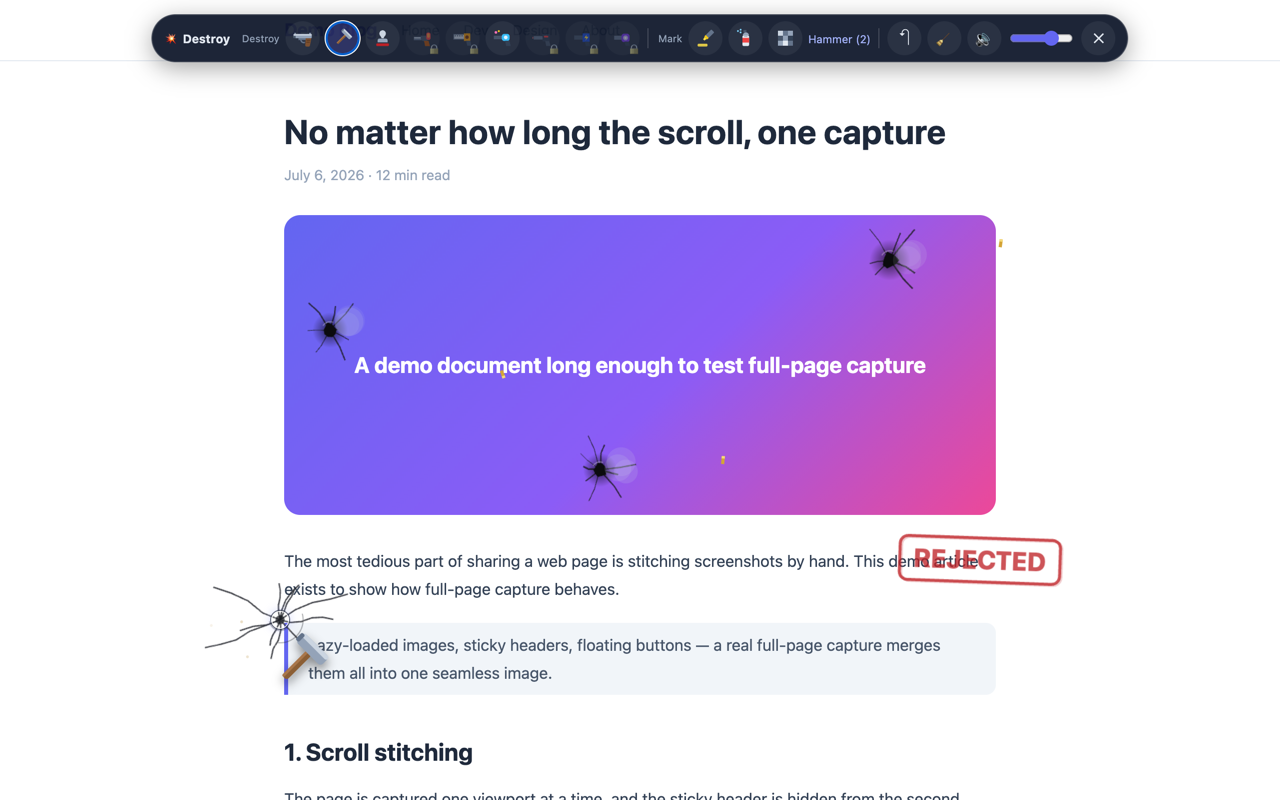
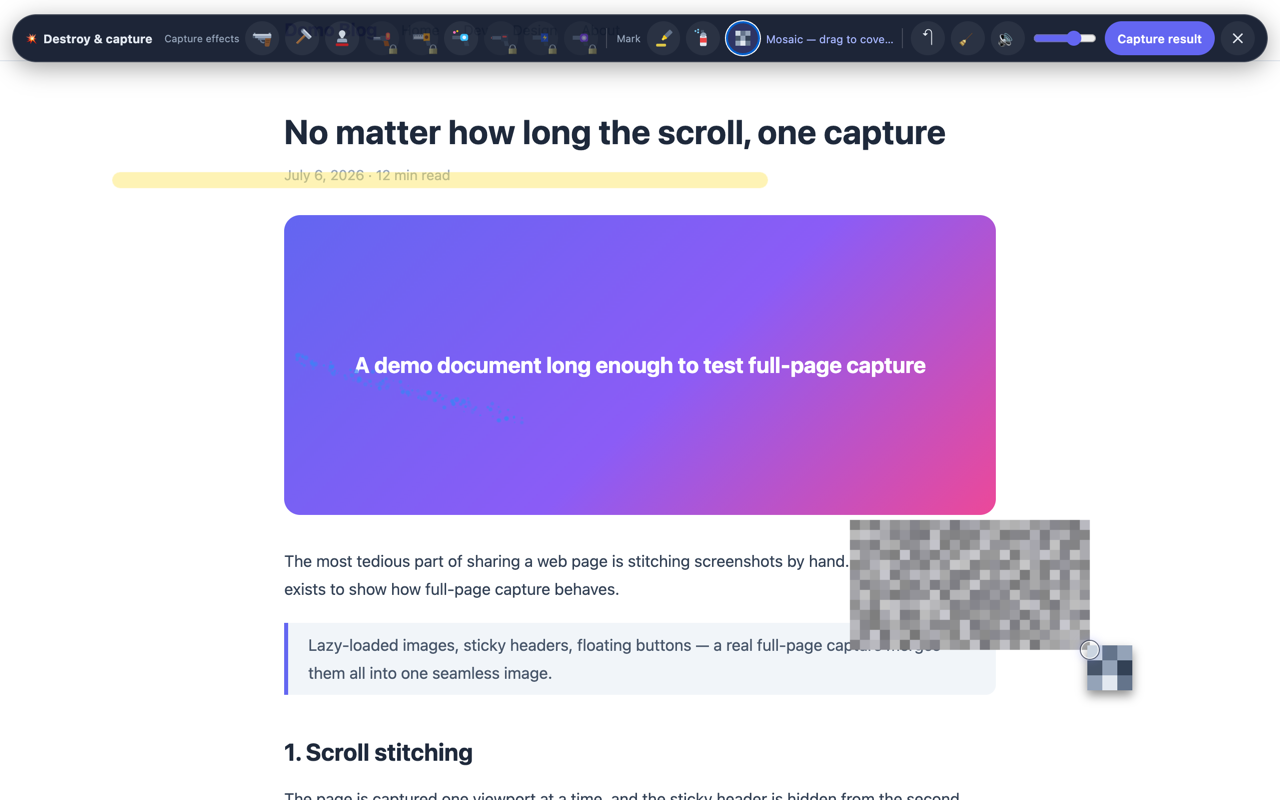
Update SnapHolt pricing and privacy

diff --git a/snapholt/index.html b/snapholt/index.html
@@ -83,14 +83,14 @@
     <li data-i18n="f2"><b>Annotate &amp; export</b> — crop, pen, arrows, highlights, mosaic, numbered badges; export to PNG / JPG / PDF / clipboard, or skip the editor with quick save.</li>
     <li data-i18n="f3"><b>Verifiable records</b> — embeds the URL, capture time, and a SHA-256 pixel hash into the image, with an optional RFC 3161 trusted timestamp and the page's original MHTML. Anyone can verify integrity on the bundled verification page.</li>
     <li data-i18n="f4"><b>Batch capture</b> — paste a list of URLs and get full-page captures as a zip or a single PDF.</li>
-    <li data-i18n="f5"><b>💥 Destroy mode</b> — blow off steam with a playful on-page overlay (and capture the aftermath).</li>
+    <li data-i18n="f5"><b>💥 Destroy &amp; Capture</b> — compose playful page effects, then save the result as a screenshot.</li>
     <li data-i18n="f6"><b>Scheduled capture &amp; change detection</b> — run hourly, daily, weekly, or once; monitor one or more regions, save only on change, and keep searchable history. Runs locally while Chrome is available.</li>
   </ul>
 
   <img class="shot" src="img/screenshot-1-editor.png" alt="SnapHolt editor with a full-page capture and integrity record band">
   <p class="cap" data-i18n="cap1">The editor with a full-page capture — the record band stores URL, time, and hash for later integrity checks.</p>
-  <img class="shot" src="img/screenshot-4-destroy.png" alt="SnapHolt destroy mode on a live page">
-  <p class="cap" data-i18n="cap2">Destroy mode: doodles stick to the page and appear in captures.</p>
+  <img class="shot" src="img/screenshot-4-destroy.png" alt="SnapHolt Destroy and Capture effects on a live page">
+  <p class="cap" data-i18n="cap2">Destroy &amp; Capture: effects stick to the page; use Capture result to save them.</p>
 
   <h2 data-i18n="privacyH">Privacy</h2>
   <div class="card" data-i18n="privacyBody">
@@ -102,11 +102,12 @@
 
   <h2 data-i18n="pricingH">Pricing</h2>
   <div class="card" data-i18n="pricingBody">
-    Free: unlimited full-page capture and editing, 3 verifiable records per month, batch up to 3 URLs, and 30 history items.<br>
-    <b>Lifetime (SnapHolt 1.x) — planned launch price $9.99, one-time, up to 3 devices you own or control</b>: scheduled capture,
-    local change detection, unlimited records, batch capture and history, plus all destroy-mode
-    tools. Not yet on sale; final price and applicable tax will appear at checkout. Future roadmap
-    features are not included unless explicitly stated · <a href="terms.html">license terms</a>
+    Free: unlimited full-page capture and editing, the core Destroy &amp; Capture mode with Capture result and its included basic effects, 3 verifiable records per month, batch up to 3 URLs, and 30 history items.<br>
+    <b>Lifetime (SnapHolt 1.x) — $9.99 one-time, up to 3 devices you own or control</b>: scheduled capture,
+    local change detection, unlimited records, batch capture and history, plus all additional Destroy &amp; Capture
+    effect tools. Available for purchase from inside the installed extension. Polar shows the final total
+    and applicable tax at checkout. Future roadmap features are not included unless explicitly
+    stated · <a href="terms.html">license terms</a>
   </div>
 
   <h2 data-i18n="limitsH">Good to know</h2>
@@ -161,14 +162,14 @@
       f2: "<b>Annotate &amp; export</b> — crop, pen, arrows, highlights, mosaic, numbered badges; export to PNG / JPG / PDF / clipboard, or skip the editor with quick save.",
       f3: "<b>Verifiable records</b> — embeds the URL, capture time, and a SHA-256 pixel hash into the image, with an optional RFC 3161 trusted timestamp and the page's original MHTML. Anyone can verify integrity on the bundled verification page.",
       f4: "<b>Batch capture</b> — paste a list of URLs and get full-page captures as a zip or a single PDF.",
-      f5: "<b>💥 Destroy mode</b> — blow off steam with a playful on-page overlay (and capture the aftermath).",
+      f5: "<b>💥 Destroy &amp; Capture</b> — compose playful page effects, then save the result as a screenshot.",
       f6: "<b>Scheduled capture &amp; change detection</b> — run hourly, daily, weekly, or once; monitor one or more regions, save only on change, and keep searchable history. Runs locally while Chrome is available.",
       cap1: "The editor with a full-page capture — the record band stores URL, time, and hash for later integrity checks.",
-      cap2: "Destroy mode: doodles stick to the page and appear in captures.",
+      cap2: "Destroy &amp; Capture: effects stick to the page; use Capture result to save them.",
       privacyH: "Privacy",
       privacyBody: "Core capture, editing, schedules, and history run on your device. License activation sends limited license details to Polar; the optional Trusted Timestamp sends only a capture hash to freetsa.org. Captured images, MHTML, page contents, and URLs are not sent to Queue1Lab. Read the full " + PP("Privacy Policy") + ".",
       pricingH: "Pricing",
-      pricingBody: "Free: unlimited full-page capture and editing, 3 verifiable records per month, batch capture up to 3 URLs, and the latest 30 history items.<br><b>Lifetime (SnapHolt 1.x) — planned launch price $9.99, one-time, up to 3 devices you own or control</b>: scheduled capture, local change detection, unlimited records, batch capture and history, plus all destroy-mode tools. Not yet on sale; final price and applicable tax will appear at checkout. Future roadmap features are not included unless explicitly stated · <a href=\"terms.html\">license terms</a>",
+      pricingBody: "Free: unlimited full-page capture and editing, the core Destroy &amp; Capture mode with Capture result and its included basic effects, 3 verifiable records per month, batch capture up to 3 URLs, and the latest 30 history items.<br><b>Lifetime (SnapHolt 1.x) — $9.99 one-time, up to 3 devices you own or control</b>: scheduled capture, local change detection, unlimited records, batch capture and history, plus all additional Destroy &amp; Capture effect tools. Available for purchase from inside the installed extension. Polar shows the final total and applicable tax at checkout. Future roadmap features are not included unless explicitly stated · <a href=\"terms.html\">license terms</a>",
       limitsH: "Good to know",
       limitsBody: "Scheduled jobs require Chrome and your device to be available and are not a guaranteed 24/7 monitoring service. Local history and settings can be lost if the extension is removed or browser/device data is reset, so export important records. Verifiable records help check integrity but do not guarantee legal admissibility · <a href=\"terms.html\">details</a>",
       visionH: "Where SnapHolt is headed",
@@ -188,14 +189,14 @@
       f2: "<b>주석 &amp; 내보내기</b> — 크롭·펜·화살표·하이라이트·모자이크·순번 배지. PNG / JPG / PDF / 클립보드로 내보내거나, 빠른 저장으로 에디터를 건너뜁니다.",
       f3: "<b>검증 가능한 기록</b> — URL·캡처 시각·SHA-256 픽셀 해시를 이미지에 삽입하고, 옵션으로 RFC 3161 신뢰 타임스탬프와 페이지 원본 MHTML을 함께 보존합니다. 동봉된 검증 페이지에서 누구나 무결성을 확인할 수 있습니다.",
       f4: "<b>일괄 캡처</b> — URL 목록을 붙여넣으면 전체 페이지 캡처를 zip 또는 단일 PDF로 받습니다.",
-      f5: "<b>💥 부수기 모드</b> — 장난스러운 페이지 위 오버레이로 스트레스를 날리세요 (그 흔적까지 캡처됩니다).",
+      f5: "<b>💥 부수고 캡처</b> — 장난스러운 페이지 효과를 만든 뒤 결과를 스크린샷으로 저장합니다.",
       f6: "<b>예약 캡처 &amp; 변경 감지</b> — 매시간·매일·매주 또는 한 번 실행하고, 여러 영역을 감시해 변경 시에만 저장하며 검색 가능한 히스토리에 남깁니다. Chrome이 실행 가능한 상태에서 로컬로 동작합니다.",
       cap1: "전체 페이지 캡처를 연 에디터 — 하단 기록 밴드에 URL·시각·해시를 남겨 이후 무결성을 확인할 수 있습니다.",
-      cap2: "부수기 모드: 낙서가 페이지에 붙어 캡처에도 그대로 나타납니다.",
+      cap2: "부수고 캡처: 효과가 페이지에 붙고 ‘결과 캡처’로 바로 저장됩니다.",
       privacyH: "프라이버시",
       privacyBody: "핵심 캡처·편집·예약·히스토리는 기기에서 처리됩니다. 라이선스 활성화 시 제한된 라이선스 정보가 Polar로 전송되고, 신뢰 타임스탬프를 직접 켠 경우에만 캡처 해시가 freetsa.org로 전송됩니다. 캡처 이미지, MHTML, 페이지 내용과 URL은 Queue1Lab로 전송되지 않습니다. 전체 " + PP("개인정보처리방침") + "을 확인하세요.",
       pricingH: "요금",
-      pricingBody: "무료: 전체 페이지 캡처·편집 무제한, 검증 가능한 기록 월 3회, 일괄 캡처 3개 URL까지, 최근 히스토리 30개.<br><b>Lifetime(SnapHolt 1.x) — 출시 예정가 $9.99, 1회 결제, 본인 소유·관리 기기 최대 3대</b>: 예약 캡처, 로컬 변경 감지, 기록·일괄 캡처·히스토리 무제한, 부수기 모드 전체 도구. 아직 판매 전이며 최종 가격과 적용 세금은 결제 화면에 표시됩니다. 향후 방향에 적힌 기능은 출시 시 명시하지 않는 한 포함을 보장하지 않습니다 · <a href=\"terms.html\">라이선스 약관</a>",
+      pricingBody: "무료: 전체 페이지 캡처·편집 무제한, 기본 효과가 포함된 핵심 부수고 캡처 모드와 ‘결과 캡처’, 검증 가능한 기록 월 3회, 일괄 캡처 3개 URL까지, 최근 히스토리 30개.<br><b>Lifetime(SnapHolt 1.x) — $9.99, 1회 결제, 본인 소유·관리 기기 최대 3대</b>: 예약 캡처, 로컬 변경 감지, 기록·일괄 캡처·히스토리 무제한, 부수고 캡처의 추가 효과 도구 전체. 설치한 확장 프로그램 안에서 구매할 수 있습니다. 최종 결제 금액과 적용 세금은 Polar 결제 화면에 표시됩니다. 향후 방향에 적힌 기능은 출시 시 명시하지 않는 한 포함을 보장하지 않습니다 · <a href=\"terms.html\">라이선스 약관</a>",
       limitsH: "알아두세요",
       limitsBody: "예약 작업은 Chrome과 기기가 실행 가능한 상태여야 하며 24시간 무중단 감시를 보장하지 않습니다. 확장 삭제나 브라우저·기기 데이터 초기화 시 로컬 히스토리와 설정을 잃을 수 있으므로 중요한 기록은 내보내 보관하세요. 검증 가능한 기록은 무결성 확인을 돕지만 법적 증거 능력을 보장하지 않습니다 · <a href=\"terms.html\">자세히 보기</a>",
       visionH: "앞으로의 SnapHolt",
@@ -215,14 +216,14 @@
       f2: "<b>注釈 &amp; エクスポート</b> — トリミング・ペン・矢印・ハイライト・モザイク・番号バッジ。PNG / JPG / PDF / クリップボードへ出力、クイック保存でエディタの省略も可能。",
       f3: "<b>検証可能な記録</b> — URL・撮影時刻・SHA-256ピクセルハッシュを画像に埋め込み、オプションでRFC 3161信頼タイムスタンプと元ページのMHTMLも保存。付属の検証ページで誰でも完全性を確認できます。",
       f4: "<b>一括キャプチャ</b> — URLリストを貼り付けるだけで、フルページキャプチャをzipまたは1つのPDFで取得。",
-      f5: "<b>💥 破壊モード</b> — 遊び心のあるページ上オーバーレイでストレス発散（その跡もキャプチャできます）。",
+      f5: "<b>💥 壊してキャプチャ</b> — ページに楽しい効果を加え、結果をスクリーンショットとして保存します。",
       f6: "<b>予約キャプチャ＆変更検知</b> — 毎時・毎日・毎週または一度だけ実行し、複数の領域を監視して変更時のみ保存。検索できる履歴に残します。Chrome が利用可能な間、ローカルで動作します。",
       cap1: "フルページキャプチャを開いたエディタ — 下部の記録バンドにURL・時刻・ハッシュを保存し、後で整合性を確認できます。",
-      cap2: "破壊モード：落書きはページに固定され、キャプチャにもそのまま写ります。",
+      cap2: "壊してキャプチャ：効果はページに固定され、「結果をキャプチャ」で保存できます。",
       privacyH: "プライバシー",
       privacyBody: "主要なキャプチャ、編集、スケジュール、履歴機能はお使いのデバイス上で動作します。ライセンス認証では、限定的なライセンス情報が Polar に送信されます。オプションの信頼できるタイムスタンプでは、キャプチャのハッシュのみが freetsa.org に送信されます。キャプチャ画像、MHTML、ページ内容、URL が Queue1Lab に送信されることはありません。全文は " + PP("プライバシーポリシー") + " をご覧ください。",
       pricingH: "料金",
-      pricingBody: "無料：フルページキャプチャと編集は無制限、検証可能な記録は月3件、バッチキャプチャは最大3 URL、履歴は最新30件まで利用できます。<br><b>Lifetime (SnapHolt 1.x) — 公開時の予定価格 $9.99、1回払い、所有または管理する最大3台のデバイス</b>：予約キャプチャ、ローカル変更検出、記録・バッチキャプチャ・履歴の無制限利用、およびすべての破壊モードツール。まだ販売を開始していません。最終価格と適用される税額は購入手続き時に表示されます。将来のロードマップ機能は、明示されない限り含まれません · <a href=\"terms.html\">ライセンス条件</a>",
+      pricingBody: "無料：フルページキャプチャと編集は無制限、基本エフェクトを含む中核の「壊してキャプチャ」モードと「結果をキャプチャ」、検証可能な記録は月3件、バッチキャプチャは最大3 URL、履歴は最新30件まで利用できます。<br><b>Lifetime (SnapHolt 1.x) — $9.99、1回払い、所有または管理する最大3台のデバイス</b>：予約キャプチャ、ローカル変更検出、記録・バッチキャプチャ・履歴の無制限利用、および壊してキャプチャの追加エフェクトツールすべて。インストールした拡張機能内から購入できます。最終合計金額と適用税額は Polar の購入手続き画面に表示されます。将来のロードマップ機能は、明示されない限り含まれません · <a href=\"terms.html\">ライセンス条件</a>",
       limitsH: "知っておきたいこと",
       limitsBody: "スケジュール済みジョブの実行には Chrome とデバイスが利用可能な状態である必要があり、24時間365日の監視を保証するサービスではありません。拡張機能を削除した場合やブラウザまたはデバイスのデータをリセットした場合、ローカルの履歴や設定が失われる可能性があるため、重要な記録はエクスポートしてください。検証可能な記録は整合性の確認に役立ちますが、法的な証拠能力を保証するものではありません · <a href=\"terms.html\">詳細</a>",
       visionH: "SnapHolt が目指す方向",
@@ -242,14 +243,14 @@
       f2: "<b>標註與匯出</b> — 裁切、畫筆、箭頭、螢光標記、馬賽克、編號徽章；匯出為 PNG / JPG / PDF / 剪貼簿，或用快速儲存略過編輯器。",
       f3: "<b>可驗證記錄</b> — 將網址、擷取時間與 SHA-256 像素雜湊嵌入圖片，可選加上 RFC 3161 可信時間戳與頁面原始 MHTML。任何人都能在附帶的驗證頁面確認完整性。",
       f4: "<b>批次擷取</b> — 貼上網址清單，即可取得整頁截圖的 zip 或單一 PDF。",
-      f5: "<b>💥 破壞模式</b> — 用趣味的頁面覆蓋層發洩壓力（還能把痕跡拍下來）。",
+      f5: "<b>💥 破壞並擷取</b> — 在頁面加入趣味效果，再將結果存成截圖。",
       f6: "<b>排程擷取與變更偵測</b> — 可每小時、每日、每週或單次執行，監看多個區域、僅在變更時儲存，並保留可搜尋的記錄。Chrome 可用時在本機執行。",
       cap1: "編輯器中的整頁擷取 — 底部記錄帶會保存網址、時間與雜湊值，以供日後檢查完整性。",
-      cap2: "破壞模式：塗鴉固定在頁面上，擷取時也會一併入鏡。",
+      cap2: "破壞並擷取：效果會固定在頁面上，按「擷取結果」即可儲存。",
       privacyH: "隱私",
       privacyBody: "核心擷取、編輯、排程與歷史記錄功能都在您的裝置上執行。啟用授權時，會將有限的授權資訊傳送給 Polar；選用的可信時間戳記只會將擷取雜湊傳送給 freetsa.org。擷取的圖片、MHTML、頁面內容與 URL 不會傳送給 Queue1Lab。請閱讀完整的" + PP("隱私權政策") + "。",
       pricingH: "價格",
-      pricingBody: "免費：不限次數的完整頁面擷取與編輯、每月3筆可驗證記錄、最多3個 URL 的批次擷取，以及最近30筆歷史記錄。<br><b>Lifetime (SnapHolt 1.x) — 預計首發價格 $9.99，一次性付費，可用於您擁有或管理的最多3台裝置</b>：排程擷取、本機變更偵測、無限記錄、批次擷取與歷史記錄，以及所有銷毀模式工具。目前尚未開始銷售；最終價格與適用稅額將在結帳時顯示。未來的路線圖功能除非另有明確說明，否則不包含在內 · <a href=\"terms.html\">授權條款</a>",
+      pricingBody: "免費：不限次數的完整頁面擷取與編輯、含基本效果的核心「破壞並擷取」模式與「擷取結果」、每月3筆可驗證記錄、最多3個 URL 的批次擷取，以及最近30筆歷史記錄。<br><b>Lifetime (SnapHolt 1.x) — $9.99，一次性付費，可用於您擁有或管理的最多3台裝置</b>：排程擷取、本機變更偵測、無限記錄、批次擷取與歷史記錄，以及破壞並擷取的所有額外效果工具。可從已安裝的擴充功能內購買。最終應付總額與適用稅額會顯示於 Polar 結帳頁面。未來的路線圖功能除非另有明確說明，否則不包含在內 · <a href=\"terms.html\">授權條款</a>",
       limitsH: "重要須知",
       limitsBody: "排程工作需要 Chrome 與您的裝置處於可用狀態，且不屬於保證全天候運作的監控服務。移除擴充功能或重設瀏覽器或裝置資料時，本機歷史記錄與設定可能遺失，因此請匯出重要記錄。可驗證記錄有助於檢查完整性，但不保證具備法律上的證據能力 · <a href=\"terms.html\">詳細資訊</a>",
       visionH: "SnapHolt 的發展方向",
@@ -269,14 +270,14 @@
       f2: "<b>标注与导出</b> — 裁剪、画笔、箭头、高亮、马赛克、编号徽章；导出为 PNG / JPG / PDF / 剪贴板，或用快速保存跳过编辑器。",
       f3: "<b>可验证记录</b> — 将网址、截取时间与 SHA-256 像素哈希嵌入图片，可选附加 RFC 3161 可信时间戳与页面原始 MHTML。任何人都可以在附带的验证页面确认完整性。",
       f4: "<b>批量截取</b> — 粘贴网址列表，即可获得整页截图的 zip 或单个 PDF。",
-      f5: "<b>💥 破坏模式</b> — 用趣味的页面覆盖层释放压力（还能把痕迹拍下来）。",
+      f5: "<b>💥 破坏并截取</b> — 在页面添加趣味效果，再将结果保存为截图。",
       f6: "<b>定时捕获与变化检测</b> — 可每小时、每天、每周或单次运行，监控多个区域、仅在变化时保存，并保留可搜索的记录。Chrome 可用时在本地运行。",
       cap1: "编辑器中的整页截图 — 底部记录条会保存网址、时间和哈希值，以便日后检查完整性。",
-      cap2: "破坏模式：涂鸦固定在页面上，截图时也会一并保留。",
+      cap2: "破坏并截取：效果会固定在页面上，点击“截取结果”即可保存。",
       privacyH: "隐私",
       privacyBody: "核心截取、编辑、定时任务和历史记录功能均在您的设备上运行。激活许可证时，会将有限的许可证信息发送给 Polar；可选的可信时间戳仅会将截取内容的哈希发送给 freetsa.org。截取的图片、MHTML、页面内容和 URL 不会发送给 Queue1Lab。请阅读完整的" + PP("隐私政策") + "。",
       pricingH: "价格",
-      pricingBody: "免费版：不限次数的完整页面截取与编辑、每月3条可验证记录、最多3个 URL 的批量截取，以及最近30条历史记录。<br><b>Lifetime (SnapHolt 1.x) — 计划首发价 $9.99，一次性付费，可用于您拥有或管理的最多3台设备</b>：定时截取、本地变化检测、无限记录、批量截取与历史记录，以及全部销毁模式工具。目前尚未开始销售；最终价格和适用税费将在结账时显示。未来路线图中的功能除非另有明确说明，否则不包含在内 · <a href=\"terms.html\">许可条款</a>",
+      pricingBody: "免费版：不限次数的完整页面截取与编辑、包含基础效果的核心“破坏并截取”模式与“截取结果”、每月3条可验证记录、最多3个 URL 的批量截取，以及最近30条历史记录。<br><b>Lifetime (SnapHolt 1.x) — $9.99，一次性付费，可用于您拥有或管理的最多3台设备</b>：定时截取、本地变化检测、无限记录、批量截取与历史记录，以及破坏并截取的所有额外效果工具。可从已安装的扩展程序内购买。最终应付总额和适用税费会显示在 Polar 结账页面。未来路线图中的功能除非另有明确说明，否则不包含在内 · <a href=\"terms.html\">许可条款</a>",
       limitsH: "重要须知",
       limitsBody: "定时任务需要 Chrome 和您的设备处于可用状态，并非保证全天候运行的监控服务。移除扩展程序或重置浏览器或设备数据时，本地历史记录和设置可能丢失，因此请导出重要记录。可验证记录有助于检查完整性，但不保证具有法律可采性 · <a href=\"terms.html\">详细信息</a>",
       visionH: "SnapHolt 的发展方向",
@@ -296,14 +297,14 @@
       f2: "<b>Anota y exporta</b> — recorte, lápiz, flechas, resaltados, mosaico, insignias numeradas; exporta a PNG / JPG / PDF / portapapeles, o salta el editor con el guardado rápido.",
       f3: "<b>Registros verificables</b> — incrusta la URL, la hora de captura y un hash SHA-256 de los píxeles en la imagen, con un sello de tiempo confiable RFC 3161 opcional y el MHTML original de la página. Cualquiera puede verificar la integridad en la página de verificación incluida.",
       f4: "<b>Captura por lotes</b> — pega una lista de URLs y obtén capturas de página completa en un zip o un solo PDF.",
-      f5: "<b>💥 Modo destrucción</b> — desahógate con una capa lúdica sobre la página (y captura el resultado).",
+      f5: "<b>💥 Destruir y capturar</b> — añade efectos lúdicos a la página y guarda el resultado como captura.",
       f6: "<b>Captura programada y detección de cambios</b> — ejecuta cada hora, día, semana o una vez; vigila varias regiones, guarda solo al cambiar y conserva un historial buscable. Funciona localmente mientras Chrome está disponible.",
       cap1: "El editor con una captura de página completa — la banda inferior registra URL, hora y hash para comprobar después la integridad.",
-      cap2: "Modo destrucción: los garabatos se fijan a la página y aparecen en las capturas.",
+      cap2: "Destruir y capturar: los efectos se fijan a la página; usa Capturar resultado para guardarlos.",
       privacyH: "Privacidad",
       privacyBody: "Las funciones principales de captura, edición, programación e historial se ejecutan en tu dispositivo. La activación de la licencia envía a Polar datos limitados de la licencia; la marca de tiempo de confianza opcional envía únicamente un hash de la captura a freetsa.org. Las imágenes capturadas, los archivos MHTML, el contenido de las páginas y las URL no se envían a Queue1Lab. Consulta la " + PP("Política de privacidad") + " completa.",
       pricingH: "Precios",
-      pricingBody: "Gratis: captura de página completa y edición ilimitadas, 3 registros verificables al mes, captura por lotes de hasta 3 URL y los 30 elementos más recientes del historial.<br><b>Lifetime (SnapHolt 1.x) — precio de lanzamiento previsto: $9.99, pago único, hasta 3 dispositivos que poseas o controles</b>: capturas programadas, detección local de cambios, registros, capturas por lotes e historial ilimitados, además de todas las herramientas del modo de destrucción. Todavía no está a la venta; el precio final y los impuestos aplicables se mostrarán al finalizar la compra. Las futuras funciones de la hoja de ruta no están incluidas salvo que se indique expresamente · <a href=\"terms.html\">términos de licencia</a>",
+      pricingBody: "Gratis: captura de página completa y edición ilimitadas, el modo principal Destruir y capturar con Capturar resultado y sus efectos básicos incluidos, 3 registros verificables al mes, captura por lotes de hasta 3 URL y los 30 elementos más recientes del historial.<br><b>Lifetime (SnapHolt 1.x) — $9.99, pago único, hasta 3 dispositivos que poseas o controles</b>: capturas programadas, detección local de cambios, registros, capturas por lotes e historial ilimitados, además de todas las herramientas de efectos adicionales de Destruir y capturar. Se puede comprar desde la extensión instalada. El total final y los impuestos aplicables se muestran en el proceso de pago de Polar. Las futuras funciones de la hoja de ruta no están incluidas salvo que se indique expresamente · <a href=\"terms.html\">términos de licencia</a>",
       limitsH: "Importante",
       limitsBody: "Las tareas programadas requieren que Chrome y tu dispositivo estén disponibles y no constituyen un servicio de supervisión ininterrumpida garantizado. El historial y los ajustes locales pueden perderse si se elimina la extensión o se restablecen los datos del navegador o del dispositivo, por lo que debes exportar los registros importantes. Los registros verificables ayudan a comprobar la integridad, pero no garantizan su admisibilidad legal · <a href=\"terms.html\">detalles</a>",
       visionH: "Hacia dónde se dirige SnapHolt",
@@ -323,14 +324,14 @@
       f2: "<b>Anote e exporte</b> — corte, caneta, setas, destaques, mosaico, selos numerados; exporte para PNG / JPG / PDF / área de transferência, ou pule o editor com o salvamento rápido.",
       f3: "<b>Registros verificáveis</b> — incorpora a URL, o horário da captura e um hash SHA-256 dos pixels na imagem, com carimbo de tempo confiável RFC 3161 opcional e o MHTML original da página. Qualquer pessoa pode verificar a integridade na página de verificação incluída.",
       f4: "<b>Captura em lote</b> — cole uma lista de URLs e receba capturas de página inteira em um zip ou um único PDF.",
-      f5: "<b>💥 Modo destruição</b> — desestresse com uma camada divertida sobre a página (e capture o estrago).",
+      f5: "<b>💥 Destruir e capturar</b> — adicione efeitos divertidos à página e salve o resultado como captura.",
       f6: "<b>Captura agendada e detecção de mudanças</b> — execute por hora, dia, semana ou uma vez; monitore várias áreas, salve só quando mudar e mantenha um histórico pesquisável. Funciona localmente enquanto o Chrome está disponível.",
       cap1: "O editor com uma captura de página inteira — a faixa inferior registra URL, horário e hash para verificações posteriores de integridade.",
-      cap2: "Modo destruição: os rabiscos ficam presos à página e aparecem nas capturas.",
+      cap2: "Destruir e capturar: os efeitos ficam na página; use Capturar resultado para salvá-los.",
       privacyH: "Privacidade",
       privacyBody: "As principais funções de captura, edição, agendamento e histórico são executadas no seu dispositivo. A ativação da licença envia dados limitados da licença à Polar; o carimbo de tempo confiável opcional envia somente o hash da captura ao freetsa.org. Imagens capturadas, arquivos MHTML, conteúdo das páginas e URLs não são enviados à Queue1Lab. Leia a " + PP("Política de Privacidade") + " completa.",
       pricingH: "Preços",
-      pricingBody: "Grátis: captura de página inteira e edição ilimitadas, 3 registros verificáveis por mês, captura em lote de até 3 URLs e os 30 itens mais recentes do histórico.<br><b>Lifetime (SnapHolt 1.x) — preço de lançamento planejado: $9.99, pagamento único, até 3 dispositivos que você possua ou controle</b>: capturas agendadas, detecção local de alterações, registros, capturas em lote e histórico ilimitados, além de todas as ferramentas do modo de destruição. Ainda não está à venda; o preço final e os impostos aplicáveis serão exibidos no checkout. Recursos futuros do roteiro não estão incluídos, salvo quando isso for declarado expressamente · <a href=\"terms.html\">termos da licença</a>",
+      pricingBody: "Grátis: captura de página inteira e edição ilimitadas, o modo principal Destruir e capturar com Capturar resultado e os efeitos básicos incluídos, 3 registros verificáveis por mês, captura em lote de até 3 URLs e os 30 itens mais recentes do histórico.<br><b>Lifetime (SnapHolt 1.x) — $9.99, pagamento único, até 3 dispositivos que você possua ou controle</b>: capturas agendadas, detecção local de alterações, registros, capturas em lote e histórico ilimitados, além de todas as ferramentas de efeitos adicionais de Destruir e capturar. A compra está disponível dentro da extensão instalada. O total final e os impostos aplicáveis são exibidos no checkout da Polar. Recursos futuros do roteiro não estão incluídos, salvo quando isso for declarado expressamente · <a href=\"terms.html\">termos da licença</a>",
       limitsH: "Importante saber",
       limitsBody: "As tarefas agendadas exigem que o Chrome e o seu dispositivo estejam disponíveis e não constituem um serviço de monitoramento contínuo garantido. O histórico e as configurações locais podem ser perdidos se a extensão for removida ou se os dados do navegador ou do dispositivo forem redefinidos; portanto, exporte os registros importantes. Registros verificáveis ajudam a conferir a integridade, mas não garantem admissibilidade jurídica · <a href=\"terms.html\">detalhes</a>",
       visionH: "Para onde o SnapHolt está caminhando",
@@ -350,14 +351,14 @@
       f2: "<b>Kommentieren &amp; exportieren</b> — Zuschneiden, Stift, Pfeile, Markierungen, Mosaik, nummerierte Badges; Export als PNG / JPG / PDF / Zwischenablage oder per Schnellspeichern direkt am Editor vorbei.",
       f3: "<b>Überprüfbare Aufzeichnungen</b> — bettet URL, Aufnahmezeit und einen SHA-256-Pixel-Hash ins Bild ein, optional mit vertrauenswürdigem RFC-3161-Zeitstempel und dem Original-MHTML der Seite. Jeder kann die Integrität auf der mitgelieferten Verifizierungsseite prüfen.",
       f4: "<b>Stapelerfassung</b> — URL-Liste einfügen und ganzseitige Aufnahmen als Zip oder einzelnes PDF erhalten.",
-      f5: "<b>💥 Zerstörungsmodus</b> — Dampf ablassen mit einem verspielten Overlay auf der Seite (und das Ergebnis festhalten).",
+      f5: "<b>💥 Zerstören und aufnehmen</b> — verspielte Seiteneffekte gestalten und das Ergebnis als Aufnahme speichern.",
       f6: "<b>Geplante Aufnahmen &amp; Änderungserkennung</b> — stündlich, täglich, wöchentlich oder einmal ausführen, mehrere Bereiche beobachten, nur bei Änderungen speichern und im durchsuchbaren Verlauf behalten. Läuft lokal, solange Chrome verfügbar ist.",
       cap1: "Der Editor mit einer ganzseitigen Aufnahme — das Band unten speichert URL, Zeit und Hash für spätere Integritätsprüfungen.",
-      cap2: "Zerstörungsmodus: Kritzeleien haften an der Seite und erscheinen in den Aufnahmen.",
+      cap2: "Zerstören und aufnehmen: Effekte haften an der Seite; Ergebnis aufnehmen speichert sie.",
       privacyH: "Datenschutz",
       privacyBody: "Die zentralen Funktionen für Aufnahme, Bearbeitung, Zeitplanung und Verlauf werden auf deinem Gerät ausgeführt. Bei der Lizenzaktivierung werden begrenzte Lizenzangaben an Polar gesendet; der optionale vertrauenswürdige Zeitstempel sendet ausschließlich einen Hash der Aufnahme an freetsa.org. Aufgenommene Bilder, MHTML-Dateien, Seiteninhalte und URLs werden nicht an Queue1Lab gesendet. Lies die vollständige " + PP("Datenschutzerklärung") + ".",
       pricingH: "Preise",
-      pricingBody: "Kostenlos: unbegrenzte Ganzseitenaufnahmen und Bearbeitung, 3 überprüfbare Nachweise pro Monat, Stapelerfassung von bis zu 3 URLs und die 30 neuesten Verlaufseinträge.<br><b>Lifetime (SnapHolt 1.x) — geplanter Einführungspreis: $9.99, einmalige Zahlung, auf bis zu drei eigenen oder von dir verwalteten Geräten</b>: geplante Aufnahmen, lokale Änderungserkennung, unbegrenzte Nachweise, Stapelerfassung und Verlauf sowie alle Werkzeuge des Zerstörungsmodus. Noch nicht erhältlich; der endgültige Preis und anfallende Steuern werden beim Bezahlvorgang angezeigt. Zukünftige Roadmap-Funktionen sind nur enthalten, wenn dies ausdrücklich angegeben wird · <a href=\"terms.html\">Lizenzbedingungen</a>",
+      pricingBody: "Kostenlos: unbegrenzte Ganzseitenaufnahmen und Bearbeitung, der Kernmodus Zerstören und aufnehmen mit Ergebnis aufnehmen und enthaltenen Basiseffekten, 3 überprüfbare Nachweise pro Monat, Stapelerfassung von bis zu 3 URLs und die 30 neuesten Verlaufseinträge.<br><b>Lifetime (SnapHolt 1.x) — $9.99, einmalige Zahlung, auf bis zu drei eigenen oder von dir verwalteten Geräten</b>: geplante Aufnahmen, lokale Änderungserkennung, unbegrenzte Nachweise, Stapelerfassung und Verlauf sowie alle zusätzlichen Effektwerkzeuge von Zerstören und aufnehmen. Der Kauf ist in der installierten Erweiterung verfügbar. Endsumme und anfallende Steuern werden beim Polar-Bezahlvorgang angezeigt. Zukünftige Roadmap-Funktionen sind nur enthalten, wenn dies ausdrücklich angegeben wird · <a href=\"terms.html\">Lizenzbedingungen</a>",
       limitsH: "Wichtig zu wissen",
       limitsBody: "Geplante Aufgaben setzen voraus, dass Chrome und dein Gerät verfügbar sind, und stellen keinen garantiert rund um die Uhr verfügbaren Überwachungsdienst dar. Lokaler Verlauf und lokale Einstellungen können verloren gehen, wenn die Erweiterung entfernt oder Browser- beziehungsweise Gerätedaten zurückgesetzt werden. Exportiere daher wichtige Nachweise. Überprüfbare Nachweise helfen bei der Integritätsprüfung, garantieren jedoch keine rechtliche Zulässigkeit als Beweismittel · <a href=\"terms.html\">Details</a>",
       visionH: "Wohin sich SnapHolt entwickelt",
@@ -377,14 +378,14 @@
       f2: "<b>Annoter &amp; exporter</b> — recadrage, stylo, flèches, surlignage, mosaïque, badges numérotés ; export en PNG / JPG / PDF / presse-papiers, ou enregistrement rapide sans passer par l'éditeur.",
       f3: "<b>Enregistrements vérifiables</b> — intègre l'URL, l'heure de capture et un hachage SHA-256 des pixels dans l'image, avec en option un horodatage de confiance RFC 3161 et le MHTML d'origine de la page. Chacun peut vérifier l'intégrité sur la page de vérification fournie.",
       f4: "<b>Capture par lots</b> — collez une liste d'URL et obtenez des captures de page entière en zip ou en un seul PDF.",
-      f5: "<b>💥 Mode destruction</b> — défoulez-vous avec un calque ludique sur la page (et capturez le résultat).",
+      f5: "<b>💥 Démolir et capturer</b> — composez des effets ludiques sur la page puis enregistrez le résultat.",
       f6: "<b>Captures planifiées et détection des changements</b> — exécution horaire, quotidienne, hebdomadaire ou unique, surveillance de plusieurs zones, enregistrement uniquement en cas de changement et historique consultable. Fonctionne localement lorsque Chrome est disponible.",
       cap1: "L’éditeur avec une capture de page entière — le bandeau inférieur enregistre l’URL, l’heure et l’empreinte pour vérifier ensuite l’intégrité.",
-      cap2: "Mode destruction : les gribouillis restent fixés à la page et apparaissent dans les captures.",
+      cap2: "Démolir et capturer : les effets restent sur la page ; Capturer le résultat les enregistre.",
       privacyH: "Confidentialité",
       privacyBody: "Les principales fonctions de capture, de modification, de planification et d’historique s’exécutent sur votre appareil. L’activation de la licence transmet à Polar des informations limitées sur la licence ; l’horodatage de confiance facultatif transmet uniquement une empreinte de la capture à freetsa.org. Les images capturées, les fichiers MHTML, le contenu des pages et les URL ne sont pas transmis à Queue1Lab. Consultez la " + PP("politique de confidentialité") + " complète.",
       pricingH: "Tarifs",
-      pricingBody: "Gratuit : captures pleine page et modification illimitées, 3 enregistrements vérifiables par mois, capture par lot de 3 URL au maximum et les 30 derniers éléments de l’historique.<br><b>Lifetime (SnapHolt 1.x) — prix de lancement envisagé : $9.99, paiement unique, sur un maximum de 3 appareils que vous possédez ou contrôlez</b> : captures planifiées, détection locale des changements, enregistrements, captures par lot et historique illimités, ainsi que tous les outils du mode destruction. Le produit n’est pas encore commercialisé ; le prix définitif et les taxes applicables seront affichés lors du paiement. Les futures fonctionnalités de la feuille de route ne sont pas incluses sauf indication expresse · <a href=\"terms.html\">conditions de licence</a>",
+      pricingBody: "Gratuit : captures pleine page et modification illimitées, le mode principal Démolir et capturer avec Capturer le résultat et ses effets de base inclus, 3 enregistrements vérifiables par mois, capture par lot de 3 URL au maximum et les 30 derniers éléments de l’historique.<br><b>Lifetime (SnapHolt 1.x) — $9.99, paiement unique, sur un maximum de 3 appareils que vous possédez ou contrôlez</b> : captures planifiées, détection locale des changements, enregistrements, captures par lot et historique illimités, ainsi que tous les outils d’effets supplémentaires de Démolir et capturer. L’achat est disponible depuis l’extension installée. Le total final et les taxes applicables sont affichés lors du paiement Polar. Les futures fonctionnalités de la feuille de route ne sont pas incluses sauf indication expresse · <a href=\"terms.html\">conditions de licence</a>",
       limitsH: "À savoir",
       limitsBody: "Les tâches planifiées nécessitent que Chrome et votre appareil soient disponibles et ne constituent pas un service de surveillance permanente garanti. L’historique et les réglages locaux peuvent être perdus si l’extension est supprimée ou si les données du navigateur ou de l’appareil sont réinitialisées ; exportez donc les enregistrements importants. Les enregistrements vérifiables aident à contrôler l’intégrité, mais ne garantissent pas leur recevabilité juridique · <a href=\"terms.html\">détails</a>",
       visionH: "La direction envisagée pour SnapHolt",
@@ -404,14 +405,14 @@
       f2: "<b>Аннотации и экспорт</b> — обрезка, перо, стрелки, выделение, мозаика, нумерованные метки; экспорт в PNG / JPG / PDF / буфер обмена или быстрое сохранение без редактора.",
       f3: "<b>Проверяемые записи</b> — встраивает в изображение URL, время съёмки и SHA-256-хеш пикселей, опционально — доверенную метку времени RFC 3161 и исходный MHTML страницы. Любой может проверить целостность на прилагаемой странице проверки.",
       f4: "<b>Пакетный захват</b> — вставьте список URL и получите снимки всех страниц в zip или одном PDF.",
-      f5: "<b>💥 Режим разрушения</b> — выпустите пар с игривым оверлеем поверх страницы (и заснимите результат).",
+      f5: "<b>💥 Разрушить и снять</b> — добавьте игровые эффекты на страницу и сохраните результат как снимок.",
       f6: "<b>Снимки по расписанию и отслеживание изменений</b> — запускайте каждый час, день, неделю или один раз; следите за несколькими областями, сохраняйте только изменения и используйте поиск по истории. Работает локально, пока доступен Chrome.",
       cap1: "Редактор со снимком всей страницы — доказательная полоса внизу фиксирует URL, время и хеш.",
-      cap2: "Режим разрушения: рисунки крепятся к странице и попадают в снимки.",
+      cap2: "Разрушить и снять: эффекты остаются на странице; кнопка «Снять результат» сохраняет их.",
       privacyH: "Конфиденциальность",
       privacyBody: "Основные функции создания и редактирования снимков, планирования и ведения истории работают на вашем устройстве. При активации лицензии ограниченный набор лицензионных данных передаётся Polar; необязательная доверенная метка времени отправляет на freetsa.org только хеш снимка. Снимки, файлы MHTML, содержимое страниц и URL-адреса не передаются Queue1Lab. Ознакомьтесь с полной " + PP("Политикой конфиденциальности") + ".",
       pricingH: "Цены",
-      pricingBody: "Бесплатно: неограниченное создание полноразмерных снимков страниц и их редактирование, 3 проверяемые записи в месяц, пакетная съёмка до 3 URL-адресов и 30 последних элементов истории.<br><b>Lifetime (SnapHolt 1.x) — планируемая стартовая цена $9.99, разовый платёж, до 3 принадлежащих или контролируемых вами устройств</b>: съёмка по расписанию, локальное обнаружение изменений, неограниченные записи, пакетная съёмка и история, а также все инструменты режима уничтожения. Продажи ещё не начались; окончательная цена и применимые налоги будут показаны при оформлении покупки. Будущие функции из плана развития не включены, если это прямо не указано · <a href=\"terms.html\">условия лицензии</a>",
+      pricingBody: "Бесплатно: неограниченное создание полноразмерных снимков страниц и их редактирование, основной режим «Разрушить и снять» с кнопкой «Снять результат» и включёнными базовыми эффектами, 3 проверяемые записи в месяц, пакетная съёмка до 3 URL-адресов и 30 последних элементов истории.<br><b>Lifetime (SnapHolt 1.x) — $9.99, разовый платёж, до 3 принадлежащих или контролируемых вами устройств</b>: съёмка по расписанию, локальное обнаружение изменений, неограниченные записи, пакетная съёмка и история, а также все дополнительные инструменты эффектов «Разрушить и снять». Покупка доступна в установленном расширении. Итоговая сумма и применимые налоги отображаются на странице оплаты Polar. Будущие функции из плана развития не включены, если это прямо не указано · <a href=\"terms.html\">условия лицензии</a>",
       limitsH: "Важно знать",
       limitsBody: "Для выполнения задач по расписанию Chrome и ваше устройство должны быть доступны; эта функция не является гарантированным сервисом круглосуточного мониторинга. Локальная история и настройки могут быть утрачены при удалении расширения или сбросе данных браузера либо устройства, поэтому экспортируйте важные записи. Проверяемые записи помогают проверить целостность, но не гарантируют юридическую допустимость · <a href=\"terms.html\">подробнее</a>",
       visionH: "Куда развивается SnapHolt",

diff --git a/snapholt/privacy.html b/snapholt/privacy.html
@@ -28,7 +28,7 @@
 <div class="wrap">
   <nav class="crumb"><a href="./">← SnapHolt</a></nav>
   <h1>SnapHolt Privacy Policy</h1>
-  <p class="eff">Effective date: 2026-07-30 · Controller/contact: Queue1Lab</p>
+  <p class="eff">Effective date: 2026-08-08 · Controller/contact: Queue1Lab</p>
 
   <p class="summary"><b>Short version:</b> SnapHolt does not upload your captures, saved page
      content, MHTML, history, or saved target list to Queue1Lab. Core product data stays in your
@@ -39,6 +39,8 @@
   <h2>English</h2>
 
   <h3>1. Data processed locally by the extension</h3>
+  <p>Before first use, SnapHolt shows this local-processing scope in the product and requires you
+     to select <b>Agree &amp; continue</b> before any capture or management feature can begin.</p>
   <ul>
     <li><b>Capture content:</b> screenshots, selected regions, annotations, optional original
         MHTML, thumbnails, and derived SHA-256 hashes are created on your device. Exported files
@@ -47,6 +49,9 @@
         URLs, capture times, and tags are stored in the extension’s local IndexedDB database.</li>
     <li><b>Schedules and settings:</b> scheduled target URLs, schedule options, preferences, and
         local license state are stored in Chrome’s local extension storage.</li>
+    <li><b>Open-tab import:</b> only when you click <i>Import open tabs</i>, SnapHolt reads the
+        URLs of your currently open tabs and copies them into the local batch list. This does not
+        run automatically, and the list is not sent to Queue1Lab.</li>
     <li>SnapHolt contains no advertising SDK, analytics SDK, or remotely hosted executable code.</li>
   </ul>
   <p>This local data is not automatically synced or backed up by Queue1Lab. Removing the
@@ -151,6 +156,8 @@
      신뢰 타임스탬프에 사용됩니다. 구매·지원 기록은 아래와 같이 별도로 처리합니다.</p>
 
   <h3>1. 확장이 로컬에서 처리하는 데이터</h3>
+  <p>첫 사용 전에 SnapHolt가 아래 로컬 처리 범위를 제품 안에서 먼저 보여주며, 사용자가
+     <b>동의하고 계속</b>을 선택하기 전에는 캡처나 관리 기능을 시작하지 않습니다.</p>
   <ul>
     <li><b>캡처 콘텐츠:</b> 스크린샷, 선택 영역, 주석, 선택적으로 저장하는 원본 MHTML, 썸네일과
         파생 SHA-256 해시는 기기에서 생성됩니다. 내보낸 파일은 사용자가 선택한 위치 또는 다운로드
@@ -159,6 +166,9 @@
         태그는 확장의 로컬 IndexedDB 데이터베이스에 저장됩니다.</li>
     <li><b>예약과 설정:</b> 예약 대상 URL, 예약 옵션, 환경설정과 로컬 라이선스 상태는 Chrome의
         확장 로컬 저장소에 저장됩니다.</li>
+    <li><b>열린 탭 가져오기:</b> 사용자가 <i>열린 탭 가져오기</i> 버튼을 직접 눌렀을 때만 현재
+        열려 있는 탭의 URL을 읽어 로컬 일괄 작업 목록에 복사합니다. 자동으로 실행되지 않으며
+        이 목록을 Queue1Lab로 전송하지 않습니다.</li>
     <li>SnapHolt에는 광고 SDK, 분석 SDK 또는 원격에서 불러오는 실행 코드가 없습니다.</li>
   </ul>
   <p>Queue1Lab은 이 로컬 데이터를 자동 동기화하거나 백업하지 않습니다. 확장 삭제, Chrome 또는
